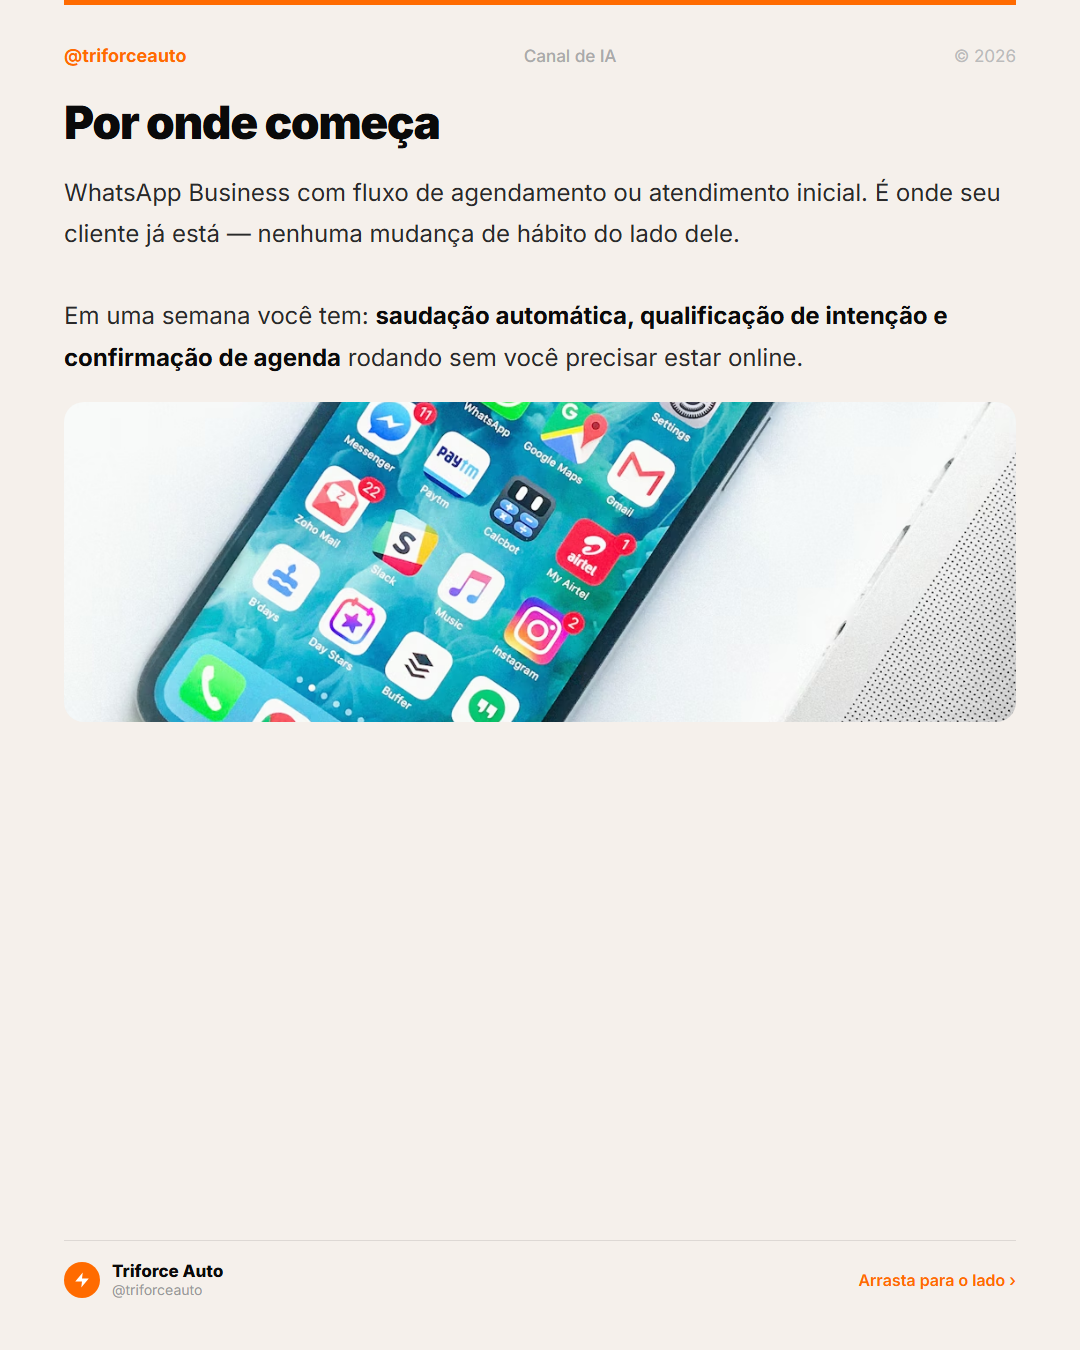
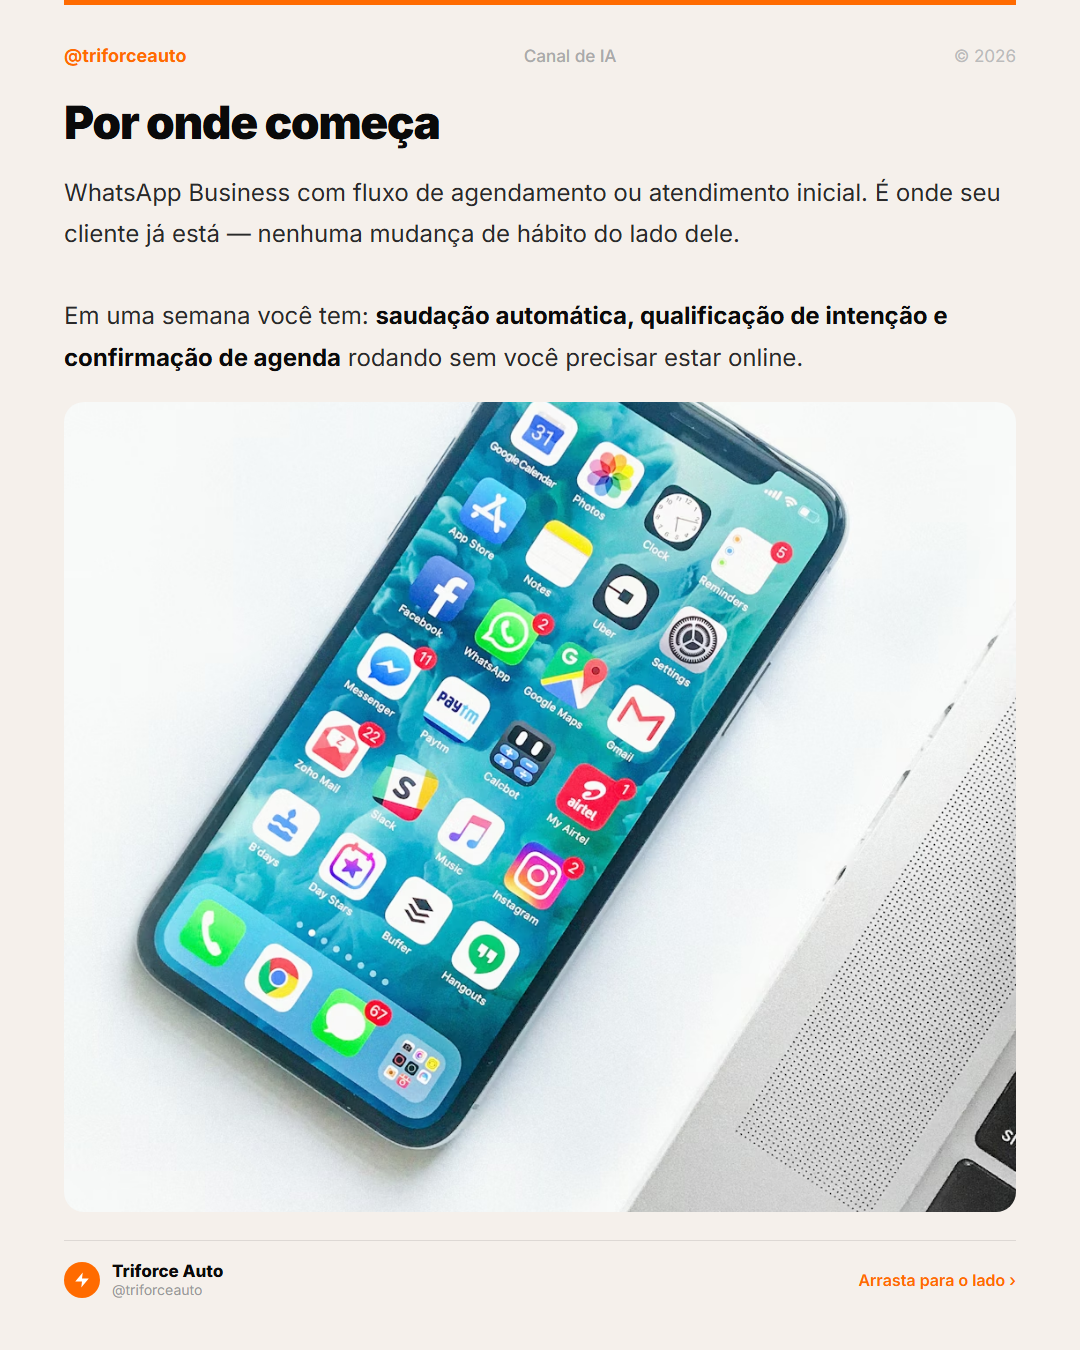
feat: carrosséis 09 (Claude Design) e 10 (Claude Opus 4.7) — 16 slides
- 09-claude-design: 6 slides — lançamento, GitHub Copilot, mercado, créditos/limitações
- 10-claude-opus-47: 10 slides — benchmarks SWE-bench, visão 3.75MP, xhigh, task budgets, tokenização, segurança
- Unsplash API integrada no generator: photo_query vira texto livre, CDN resolvido automaticamente
- photo_height: "flex" como padrão absoluto (heavy layout corrigido)
- Revisão Bruno: aprovado, em dashes em body text pendente de correção futura

Changed region(s): [[0.0917, 0.28, 0.9472, 0.9022]]

diff --git a/.claude/producao/gerar-carroseis.py b/.claude/producao/gerar-carroseis.py
@@ -1015,6 +1015,88 @@ CARROSEIS = [
         ]
     },
 
+    # ── CARROSSEL 10 — Claude Opus 4.7 ─────────────────────────────────────────
+    {
+        "slug": "10-claude-opus-47",
+        "cover_photo_query": "neural network glowing dark abstract intelligence",
+        "cover_logo_domain": "anthropic.com",
+        "cover_logo_name": "Anthropic",
+        "slides": [
+            ("cover", {
+                "headline": "O modelo que alimenta o Claude Design acaba de chegar",
+                "subheadline": "Claude Opus 4.7, lançado em 16/04/2026: 87,6% no SWE-bench, visão 3,75 MP e o modo xhigh que ninguém estava esperando",
+            }),
+            ("content", {
+                "num": 2,
+                "layout": "standard",
+                "logo_domain": "anthropic.com",
+                "photo_query": "performance benchmark chart improvement technology",
+                "photo_height": "flex",
+                "title": "O que mudou de verdade",
+                "body": "Não foi atualização incremental. O Opus 4.7 resolve problemas que o 4.6 deixava para trás:<br><br><strong>SWE-bench Verified: 87,6%</strong> — alta de 6,8 pontos em uma versão só (findskill.ai, abr/2026)<br><strong>CursorBench: 70%</strong> — subiu de 58 para 70, o maior salto desde o lançamento do benchmark (theplanettools.ai, abr/2026)",
+            }),
+            ("content", {
+                "num": 3,
+                "layout": "data",
+                "title": "Benchmarks lado a lado",
+                "body": "SWE-bench Verified — tarefa real de engenharia de software",
+                "chart": [
+                    {"label": "Opus 4.7", "pct": 88, "val": "87,6%", "color": "#FF6B00"},
+                    {"label": "Opus 4.6", "pct": 75, "val": "~75%",  "color": "rgba(255,255,255,0.35)"},
+                    {"source": "SWE-bench Verified — buildFastWithAI, abr/2026"},
+                ]
+            }),
+            ("content", {
+                "num": 4,
+                "layout": "standard",
+                "photo_query": "high resolution camera lens detail precision technology",
+                "photo_height": "flex",
+                "title": "Visão que não existia antes",
+                "body": "O 4.6 processava imagens até 1.024 px. O 4.7 vai até <strong>2.576 px nativos</strong>, com leitura real de 3,75 megapixels por chamada (findskill.ai, abr/2026)<br><br>Na prática: gráficos financeiros, plants de engenharia, wireframes de alta densidade, screenshots de produto inteiro — tudo analisado sem perder detalhe",
+            }),
+            ("content", {
+                "num": 5,
+                "layout": "spotlight",
+                "accent": "xhigh:\nraciocínio\nentre high e max",
+                "title": "", "body": "Novo nível de esforço exclusivo do 4.7: mais profundo que high, mais econômico que max. Para fluxos de agente que precisam de qualidade sem explodir o budget de tokens — é o ponto certo no meio do espectro (theplanettools.ai, abr/2026)",
+            }),
+            ("content", {
+                "num": 6,
+                "layout": "heavy",
+                "photo_query": "workflow automation agent robot task management",
+                "photo_height": "flex",
+                "title": "Task budgets: agente com limite de gasto",
+                "body": "Em beta público desde o lançamento: você define quanto o agente pode gastar por loop antes de parar e pedir confirmação.<br><br>Acabou a era do agente que vai embora e volta com uma fatura surpresa. <strong>Controle granular de custo operacional por tarefa</strong> — primeiro modelo da Anthropic com essa feature nativa (rawpickai.com, abr/2026)",
+            }),
+            ("content", {
+                "num": 7,
+                "layout": "heavy",
+                "photo_query": "developer looking at pricing cost invoice screen",
+                "photo_height": "flex",
+                "title": "Preço igual, custo diferente",
+                "body": "A tarifa oficial não mudou: <strong>$5 por milhão de tokens de entrada, $25 por saída</strong> — igual ao Opus 4.6 (verdent.ai, abr/2026)<br><br>Mas o novo tokenizador converte texto de forma diferente: o mesmo prompt custa entre <strong>10% e 35% a mais em tokens</strong> do que custava no 4.6. Antes de migrar em produção, rode seu prompt real e meça (tokenmix.ai, abr/2026)",
+            }),
+            ("content", {
+                "num": 8,
+                "layout": "spotlight",
+                "accent": "Claude Design\nroda em cima\ndisso",
+                "title": "", "body": "O Claude Design, lançado 24 horas antes do Opus 4.7, usa esse modelo como motor: visão 3,75 MP para ler screenshots e layouts, xhigh para raciocinar sobre componentes, task budget para não estourar o crédito do usuário. Não foi coincidência de data",
+            }),
+            ("content", {
+                "num": 9,
+                "layout": "heavy",
+                "photo_query": "security lock restriction policy decision corporate",
+                "photo_height": "flex",
+                "title": "O que a Anthropic removeu de propósito",
+                "body": "O Opus 4.7 teve capacidades de segurança ofensiva deliberadamente reduzidas em relação ao que os modelos internos já conseguem fazer (sangrokjung/claude-forge, abr/2026)<br><br>Não é limitação técnica — é decisão de política. A Anthropic publica o que escala com segurança, não o máximo absoluto do que o modelo é capaz",
+            }),
+            ("cta", {
+                "main": "IA muda toda semana<br><span>A Triforce traz o que importa</span>",
+                "sub": "Curadoria semanal de IA para pequenas empresas brasileiras — sem hype, com dado. Segue @triforceauto",
+            }),
+        ]
+    },
+
     # ── CARROSSEL 09 — Claude Design ────────────────────────────────────────────
     {
         "slug": "09-claude-design",
